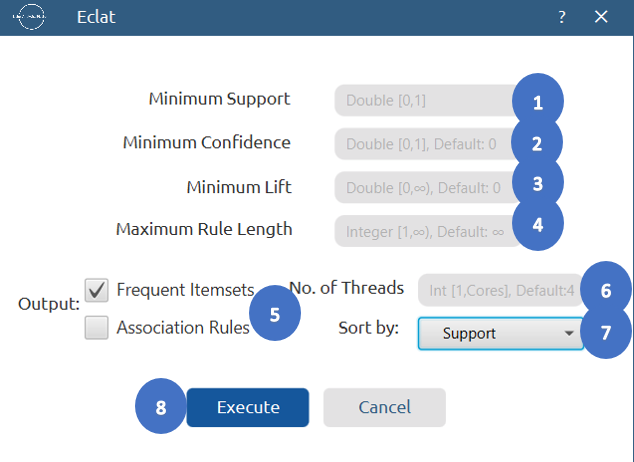
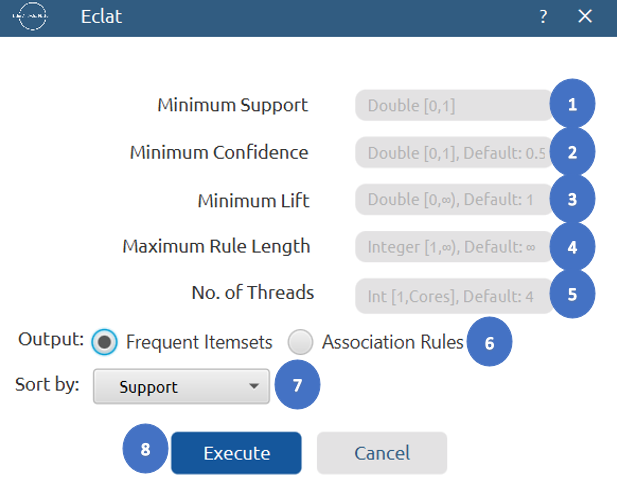
Add association rules documentation

diff --git a/docs/statistics/57association_rules.md b/docs/statistics/57association_rules.md
@@ -154,9 +154,9 @@ Data matrix with transactions, where each row represents a transaction and each 
 |**Minimum Confidence**|A float between 0 and 1 representing the minimum confidence threshold. Only rules with confidence greater than or equal to this value will be generated. |
 |**Minimum Lift**|A non-negative float representing the minimum lift threshold. Only rules with lift greater than or equal to this value will be considered significant. |
 |**Maximum Length**|An integer representing the maximum number of items allowed in an itemset. |
+|**No. of Threads**|An integer representing the number of CPU threads that the algorithm will use for parallel processing. |
 |**Frequent Itemsets**|	Outputs all itemsets that satisfy the configured thresholds. These itemsets show which combinations of items occur frequently together in the dataset. |
 |**Association Rules**|	Outputs rules derived from frequent itemsets that satisfy the configured thresholds. Each rule shows a relationship in the form “If item(s) A occur, then item(s) B also occur,” along with metrics like support, confidence, and lift. |
-|**No. of Threads**|An integer representing the number of CPU threads that the algorithm will use for parallel processing. |
 |**Sort by** |	Select the metric used to sort the output. |
 
 ### Output
@@ -179,8 +179,8 @@ In the left-hand spreadsheet of the tab, import the data matrix containing the t
 1. Select `Statistics` $$\rightarrow$$ `Association Rules` $$\rightarrow$$ `Eclat`.
 1. Configure the parameters: `Minimum Support` [1], `Minimum Confidence` [2], `Minimum Lift` [3] to determine the thresholds for frequent itemsets and association rules.
 1. Set `Maximum Length` [4] to define the largest number of items allowed in a frequent itemset.
-1. Select Output option to choose whether to display `Frequent Itemsets` or `Association Rules` [5] in the output.
-1. Set `No. of Threads` [6] to define the number of CPU threads used for parallel processing.
+1. Set `No. of Threads` [5] to define the number of CPU threads used for parallel processing.
+1. Select Output option to choose whether to display `Frequent Itemsets` or `Association Rules` [6] in the output.
 1. Select `Sort By` [7] to choose the metric used to order the output.
 1. Click on the `Execute` [8] button to apply the algorithm on the input dataset.
 
@@ -226,9 +226,9 @@ Data matrix with transactions, where each row represents a transaction and each 
 |**Minimum Confidence**|A float between 0 and 1 representing the minimum confidence threshold. Only rules with confidence greater than or equal to this value will be generated. |
 |**Minimum Lift**|A non-negative float representing the minimum lift threshold. Only rules with lift greater than or equal to this value will be considered significant. |
 |**Maximum Length**|An integer representing the maximum number of items allowed in an itemset. |
+|**No. of Partitions**|Sets the number of partitions used by parallel FP-growth. |
 |**Frequent Itemsets**|	Outputs all itemsets that satisfy the configured thresholds. These itemsets show which combinations of items occur frequently together in the dataset. |
 |**Association Rules**|	Outputs rules derived from frequent itemsets that satisfy the configured thresholds. Each rule shows a relationship in the form “If item(s) A occur, then item(s) B also occur,” along with metrics like support, confidence, and lift. |
-|**No. of Partitions**|Sets the number of partitions used by parallel FP-growth. |
 |**Sort by** |	Select the metric used to sort the output. |
 
 ### Output
@@ -252,8 +252,8 @@ In the left-hand spreadsheet of the tab, import the data matrix containing the t
 1. Select `Statistics` $$\rightarrow$$ `Association Rules` $$\rightarrow$$ `FP Growth`.
 1. Configure the parameters: `Minimum Support` [1], `Minimum Confidence` [2], `Minimum Lift` [3] to determine the thresholds for frequent itemsets and association rules.
 1. Set `Maximum Length` [4] to define the largest number of items allowed in a frequent itemset.
-1. Select Output option to choose whether to display `Frequent Itemsets` or `Association Rules` [5] in the output.
-1. Set `No. of Partitions` [6] to divide the dataset into for parallel implementation.
+1. Set `No. of Partitions` [5] to divide the dataset into for parallel implementation.
+1. Select Output option to choose whether to display `Frequent Itemsets` or `Association Rules` [6] in the output.
 1. Select `Sort By` [7] to choose the metric used to order the output.
 1. Click on the `Execute` [8] button to apply the algorithm on the input dataset.
 
